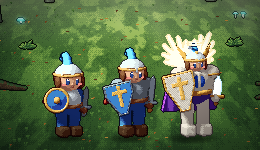
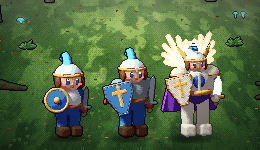
Flashcards: cauda do dragão inteira no celular em pé e escudo menor no herói lendário
Claude-Session: https://claude.ai/code/session_01Wy17hPtRMz9sgRLvNPhYVz

Changed region(s): [[0.6154, 0.4533, 0.8308, 0.9067]]

diff --git a/src/estilos/paginas/Flashcards.css b/src/estilos/paginas/Flashcards.css
@@ -1842,3 +1842,10 @@ body.fc-modal-aberto .aviso-cookies, body.fc-modal-aberto .aviso-site, body.fc-m
 }
 .fc-niveis__nota { display: none; grid-column: 1 / -1; margin: 0; font: 500 12.5px/1.35 var(--fc-ui); color: #cbbd9c; text-align: center; }
 @media (max-width: 700px) { .fc-niveis__nota { display: block; padding: 4px 10px; border-radius: 8px; color: #f0e2c4; background: rgba(14, 9, 7, .78); text-shadow: 0 1px 0 #000; } }
+
+/* Celular em pé: o quadro do dragão (264 px) era mais largo que a coluna e a cauda saía pela esquerda.
+   Um pouco menor e deslocado para dentro, sem mexer no tamanho da caixa (o layout não se move).
+   translate/scale separados para somar com as animações de transform do corpo. */
+@media (max-width: 520px) and (orientation: portrait) {
+  .fc-arena--celular .fc-ator--dragao .fc-ator__corpo { translate: 40px 0; scale: .8; }
+}

diff --git a/scripts/sprites/heroi.py b/scripts/sprites/heroi.py
@@ -35,7 +35,7 @@ PROP = {
     3: dict(perna=1.28, tronco=1.12, ombro=1.10, cab=0.91, braco=1.16, gr=1.07, escudo=1.08),
     4: dict(perna=1.46, tronco=1.20, ombro=1.17, cab=0.85, braco=1.26, gr=1.11, escudo=1.12),
     5: dict(perna=1.60, tronco=1.26, ombro=1.23, cab=0.80, braco=1.34, gr=1.14, escudo=1.15),
-    6: dict(perna=1.72, tronco=1.31, ombro=1.27, cab=0.76, braco=1.40, gr=1.16, escudo=1.17),
+    6: dict(perna=1.72, tronco=1.31, ombro=1.27, cab=0.76, braco=1.40, gr=1.16, escudo=0.96),
 }
 TEMPOS = {'parado': 240, 'preparo': 90, 'golpe': 70, 'dano': 90, 'derrota': 140, 'vitoria': 150}
 
@@ -199,7 +199,7 @@ def montar(t: dict) -> Cena:
         c.add('ouro', lambda p: sd_toro((p - V(0, 0, 0.2))[:, [0, 2, 1]], 7.3, 0.9), escudo, grupo=32)
         c.add('ouro', lambda p: sd_esfera(p - V(0, 0, 1.2), 2.2), escudo, grupo=33)
     else:  # gota (kite) com cruz; heráldico no 5; radiante no 6
-        alt = 11 if e < 5 else 12.5
+        alt = 11 if e < 5 else 12.5 if e == 5 else 11.5  # o radiante do 6 cobria o tronco inteiro
         def gota(p, alt=alt):
             q = p.copy()
             larg = 7.2 - np.clip(-(q[:, 1]) / alt, 0, 1) * 5.6

diff --git a/docs/flashcards/CONTINUAR.md b/docs/flashcards/CONTINUAR.md
@@ -118,7 +118,7 @@ O Tales autorizou o beta público (roteiro em [LANCAMENTO-BETA.md](LANCAMENTO-BE
 1. **Folhas em volume** para raptor, mímico e esqueleto, que estreiam cedo. Use o modelo de `scripts/sprites/gosma.py` e `python3 scripts/sprites/assar.py <nome>`.
 2. **Pintar Torre e Salão** com `scripts/cenarios/` (veja "Como fazer um cenário novo" em ARTE.md) e ligar em `CENAS_PINTADAS`.
 3. **Variantes escarlate e ancestral do Dragão**: acrescente `VARIANTES` em `scripts/sprites/dragao.py`.
-4. **Escudo do herói no estágio 6**: reduzir (`PROP[6]['escudo']` em `scripts/sprites/heroi.py`).
+4. ~~Escudo do herói no estágio 6~~: feito no beta (`escudo=0.96` e gota mais baixa no estágio 6).
 5. **Emenda da faixa "sala"**: revisar com `python3 scripts/musica/conferir.py`.
 
 ## Ainda não feito do pedido de direção criativa

diff --git a/docs/flashcards/RESUMO-CHATGPT.md b/docs/flashcards/RESUMO-CHATGPT.md
@@ -37,8 +37,8 @@ Projeto OrtoQuestões, repositório `talesrobertosn/ortoquestoes`. Roteiro execu
 ## Ainda não validado / planejado
 
 - Som no celular: corrigido no código, **falta o Tales testar num iPhone e num Android**.
-- Cauda do dragão fora da tela no celular, escudo grande do herói lendário e cortes em telas pequenas:
-  ficam para a rodada seguinte de refinamentos.
+- Feito depois do PR aberto: cauda do dragão inteira no celular em pé (quadro menor e deslocado para
+  dentro) e escudo do herói lendário reduzido. Cortes em outras telas pequenas: próxima rodada.
 - O cronograma de flashcards fica no aparelho (não sobe para a conta ainda).
 - Cadastro por e-mail ainda perde o destino de volta (o login com Google mantém).
 
